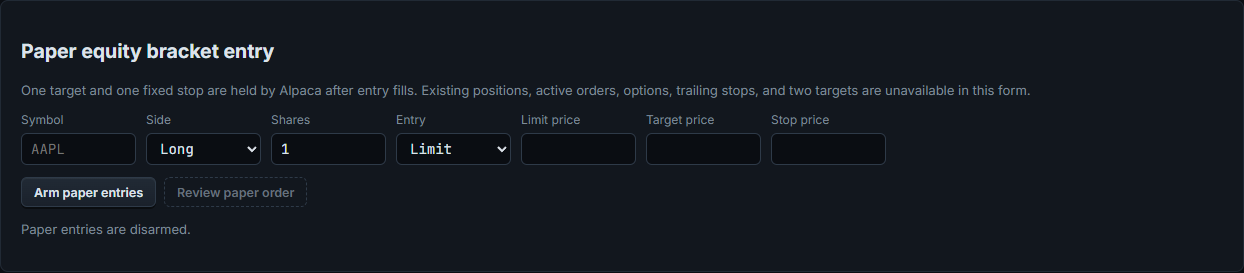
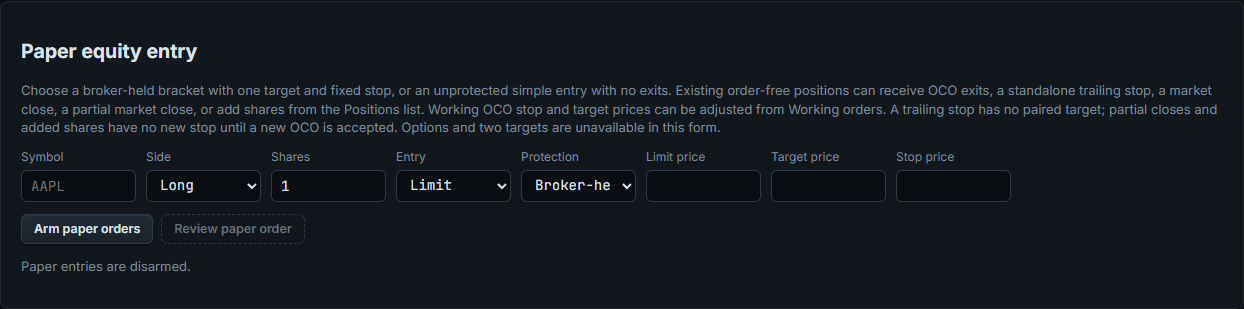
Refresh invented Paper workflow screenshots (#66)

diff --git a/scripts/capture_paper_demo.js b/scripts/capture_paper_demo.js
@@ -1,35 +1,57 @@
 // Run with the local --demo server on port 8791:
 // npx --yes @playwright/cli run-code --filename scripts/capture_paper_demo.js
-// Intercepts only the browser's state response; every value is invented demo data.
+// Intercepts all Paper responses used here; every value is invented demo data.
 async (page) => {
   const response = await page.request.get("http://127.0.0.1:8791/api/state");
   const state = await response.json();
   const now = new Date();
-  const nextOpen = new Date(Date.UTC(now.getUTCFullYear(), now.getUTCMonth(),
-                                     now.getUTCDate() + 1, 14, 30));
+  const nextClose = new Date(now.getTime() + 6 * 60 * 60 * 1000);
+  const expiry = "2026-12-18";
+  const longContract = "SPY261218C00600000";
+  const shortContract = "SPY261218C00605000";
   state.broker = {key: "alpaca-paper", name: "Alpaca Paper", mode: "paper",
-                  capabilities: ["equity-bracket"], workflows: ["equity-bracket"],
-                  help: "Paper equity bracket entry is available."};
+                  capabilities: ["equity-bracket", "multi-leg-options", "option-trading"],
+                  workflows: ["equity-bracket", "equity-simple", "equity-oco", "equity-close",
+                              "equity-partial", "equity-oco-adjust", "equity-auto-be", "equity-add",
+                              "equity-trailing", "option-long-entry", "option-close", "option-cancel",
+                              "option-fixed-exit", "option-covered-short", "vertical-entry",
+                              "vertical-close", "vertical-target", "vertical-cancel",
+                              "vertical-target-reprice", "vertical-stop"],
+                  help: "Paper equity, option, and vertical workflows are available in this invented demo."};
   state.demo = false;
   state.pending_broker = null;
   state.broker_ready = true;
   state.broker_health = {state: "ready", message: "Alpaca Paper connected"};
   state.alpaca = {
     account_status: "ACTIVE", equity: "100000", cash: "48000", buying_power: "96000",
+    options_trading_level: 3, options_approved_level: 3,
     updated_at: now.toISOString(),
     orders: [{status: "filled", type: "limit", symbols: ["AAPL"], quantities: ["2"]}],
   };
   state.positions = [{
     symbol: "AAPL", display: "AAPL", side: "LONG", qty: 2, avg_price: 100,
     last: 105, quote_stale: false, quote_source: "Alpaca IEX", open_pnl: 10,
-    protection: "FULL", stop_qty: 2,
+    asset_type: "EQUITY", protection: "FULL", stop_qty: 2,
+  }, {
+    symbol: longContract, display: longContract, side: "LONG", qty: 1, avg_price: 9.20,
+    last: 10.10, quote_stale: false, quote_source: "Alpaca indicative", open_pnl: 90,
+    asset_type: "OPTION", protection: "NONE", stop_qty: 0,
+  }, {
+    symbol: shortContract, display: shortContract, side: "SHORT", qty: 1, avg_price: 7.40,
+    last: 8.00, quote_stale: false, quote_source: "Alpaca indicative", open_pnl: -60,
+    asset_type: "OPTION", protection: "NONE", stop_qty: 0,
   }];
-  state.orders = [{display: "AAPL", role: "STOP", status: "WORKING",
-                   order_type: "STOP", qty: 2}];
+  state.orders = [{symbol: "AAPL", display: "AAPL", role: "STOP", status: "WORKING",
+                   order_type: "STOP", qty: 2, group_type: "BRACKET", order_id: "demo-stop-1"}];
+  state.paper_auto_be = [{symbol: "AAPL", side: "LONG", quantity: "2", trigger: "110.00",
+                          new_stop: "100.00", status: "watching", reason: "Waiting for +1R"}];
+  state.paper_spread_stops = [{long_contract: longContract, short_contract: shortContract,
+                               kind: "debit", stop_value: "1.00", send: false,
+                               status: "suspended", reason: "OPRA quote unavailable", stop_id: "demo-watch-1"}];
   state.fills = [{time: now.toISOString(), symbol: "AAPL", instruction: "buy",
                   quantity: "2", price: "100"}];
-  state.market_hours = {is_open: false, next_open: nextOpen.toISOString(),
-                        next_close: nextOpen.toISOString()};
+  state.market_hours = {is_open: true, next_open: now.toISOString(),
+                        next_close: nextClose.toISOString()};
   state.summary.open_pnl = {intraday: 10, mixed: 0, carried: 0, complete: true};
   state.summary.realized.securities = {net: 45, complete: true};
   await page.route("**/api/state", route => route.fulfill({
@@ -38,6 +60,20 @@ async (page) => {
   await page.route("**/api/paper/status", route => route.fulfill({
     status: 200, contentType: "application/json", body: JSON.stringify({ok: true, armed: false, unresolved: []}),
   }));
+  await page.route("**/api/paper/options/expirations", route => route.fulfill({
+    status: 200, contentType: "application/json",
+    body: JSON.stringify({ok: true, expirations: [expiry]}),
+  }));
+  await page.route("**/api/paper/options/chain", route => route.fulfill({
+    status: 200, contentType: "application/json",
+    body: JSON.stringify({ok: true, underlying: "SPY", expiration: expiry, option_type: "call",
+      contracts: [{symbol: longContract, strike: "600", bid: "10.00", ask: "10.10", mark: "10.05",
+                   delta: "0.56", gamma: "0.02", theta: "-0.15", vega: "0.20", rho: "0.04",
+                   implied_volatility: "0.19", open_interest: "1200", quote_at: now.toISOString(), tradable: true},
+                  {symbol: shortContract, strike: "605", bid: "8.00", ask: "8.10", mark: "8.05",
+                   delta: "0.48", gamma: "0.02", theta: "-0.14", vega: "0.19", rho: "0.04",
+                   implied_volatility: "0.20", open_interest: "960", quote_at: now.toISOString(), tradable: true}]}),
+  }));
   await page.reload();
   await page.locator("#alpaca-overview").screenshot({
     path: "docs/screenshot-alpaca-paper-demo.png", scale: "css",
@@ -45,5 +81,15 @@ async (page) => {
   await page.locator("#paper-entry").screenshot({
     path: "docs/screenshot-paper-entry-demo.png", scale: "css",
   });
+  await page.locator('#paper-options-form [name="underlying"]').fill("SPY");
+  await page.locator("#paper-options-expirations").click();
+  await page.locator('#paper-options-form [name="expiration"]').selectOption(expiry);
+  await page.locator('#paper-options-form [name="option_type"]').selectOption("call");
+  await page.locator("#paper-options-load").click();
+  await page.locator("#paper-options-chain table").waitFor();
+  await page.locator("#paper-options").screenshot({
+    path: "docs/screenshot-paper-options-demo.png", scale: "css",
+  });
   if (!(await page.locator("#paper-entry").isVisible())) throw new Error("Paper entry form is hidden");
+  if (!(await page.locator("#paper-vertical-close-form").isVisible())) throw new Error("Vertical controls are hidden");
 }

diff --git a/docs/paper-release-readiness.md b/docs/paper-release-readiness.md
@@ -37,7 +37,7 @@ On 2026-11-10 the configured Paper endpoint authenticated successfully and repor
 - [x] README distinguishes broker-held equity brackets/OCO exits from app-watched vertical stops and labels unprotected orders.
 - [x] README identifies local storage and broker/data outbound calls.
 - [x] Demo broker selector, Paper overview, and Paper entry screenshots exist under `docs/`; they use invented data.
-- [ ] Capture updated invented-data screenshots for the final Paper workflows; do not publish a real account screenshot.
+- [x] Capture updated invented-data screenshots for the Paper overview, equity entry, option discovery, vertical controls, Auto B/E, and app-watched spread stops. `scripts/capture_paper_demo.js` intercepts the state and option discovery responses; the resulting files are `docs/screenshot-alpaca-paper-demo.png`, `docs/screenshot-paper-entry-demo.png`, and `docs/screenshot-paper-options-demo.png`. Visually checked on 2026-11-10; no real account data was used.
 - [ ] Complete every applicable controlled Paper scenario above and attach redacted evidence to #12.
 - [ ] Re-run the automated gate on the final commit and record the results in #12.
 - [ ] Confirm Schwab is selectable and its regression suite passes.

diff --git a/README.md b/README.md
@@ -98,7 +98,13 @@ entries and loads a fresh broker runtime before order controls can be used again
 The strip below the header explains which workflows the selected broker can currently use; Demo
 shows invented data with order controls disabled.
 
+These Paper screenshots use invented account data and intercepted browser responses.
+
+![Alpaca Paper overview with invented Auto B/E and app-watched spread stops](docs/screenshot-alpaca-paper-demo.png)
+
 ![Alpaca Paper equity bracket form with invented demo state](docs/screenshot-paper-entry-demo.png)
+
+![Alpaca Paper option discovery and vertical controls with invented contracts](docs/screenshot-paper-options-demo.png)
 
 - **Your data stays on your computer.** No account with us, no cloud, no telemetry. The app talks to the selected broker.
 - **Every order is your click.** No signals, no auto-trading. Two exceptions, both opt-in per trade: pick "Auto B/E 1R" on the ticket and the app moves that trade's stop to break-even once, when price reaches +1R; tick "Send when hit" on a spread's stop and the app sends that spread's close once, when the stop is reached.
